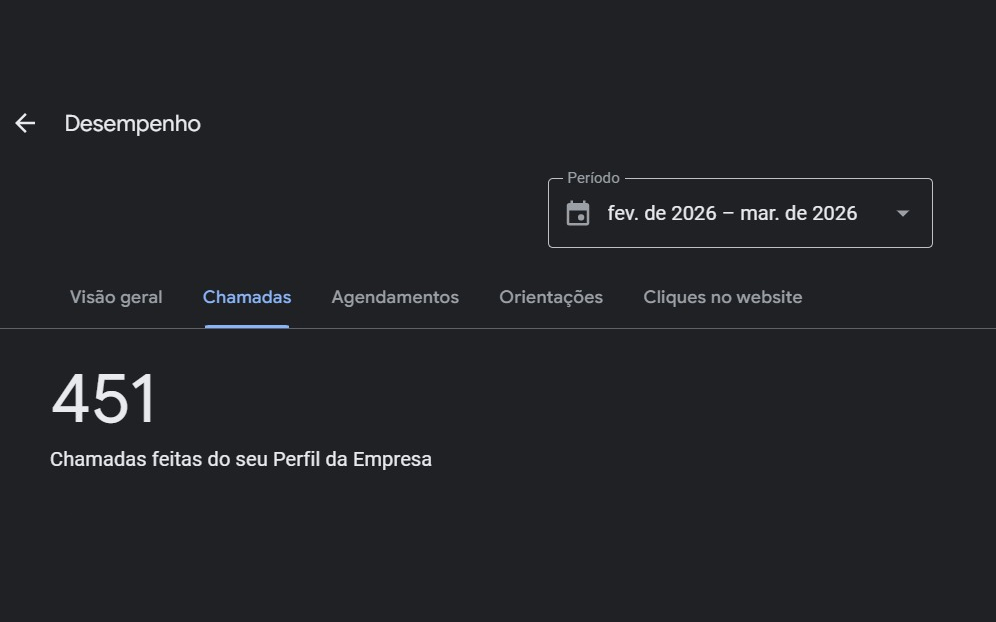
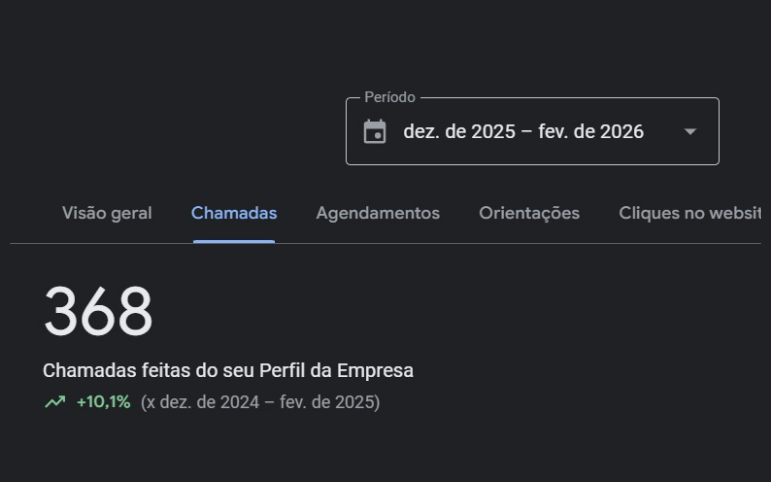
Troca print desktop da CliniMessias (368 chamadas, +10,1%)

diff --git a/index.html b/index.html
@@ -169,7 +169,7 @@
               <div class="lg:col-span-7">
                 <div class="relative mx-auto max-w-xl pb-6 pr-3 sm:pb-8 sm:pr-0">
                   <div class="monitor overflow-hidden">
-                    <img src="assets/clinimessias-desktop.png" alt="Painel do Perfil da Empresa da CliniMessias: 451 chamadas entre fev. e mar. de 2026" width="996" height="622" loading="lazy" decoding="async" class="block aspect-[16/10] w-full object-cover">
+                    <img src="assets/clinimessias-desktop.png" alt="Painel do Perfil da Empresa da CliniMessias: 368 chamadas entre dez. de 2025 e fev. de 2026, +10,1%" width="771" height="482" loading="lazy" decoding="async" class="block aspect-[16/10] w-full object-cover">
                   </div>
                   <div class="monitor-stand"></div><div class="monitor-base"></div>
                   <div class="phone absolute bottom-0 right-0 w-[26%] overflow-hidden sm:-right-6">
